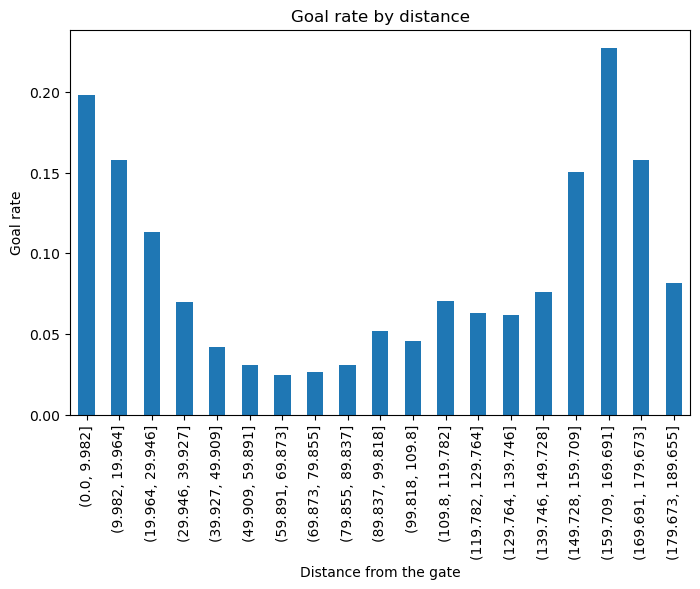
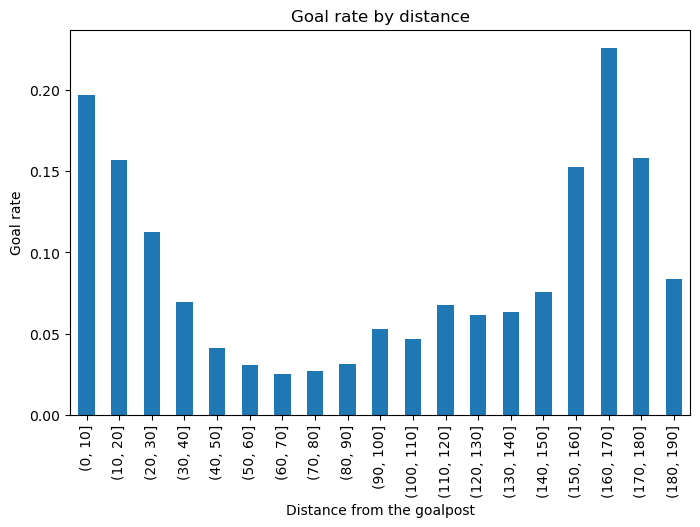
update imgs and use round() to the bins

diff --git a/Milestone2/features/feature_eng1.py b/Milestone2/features/feature_eng1.py
@@ -88,8 +88,9 @@ def init_distance_bins(df: pd.DataFrame) -> pd.DataFrame:
     max_distance = df['shotDistance'].max()
     min_distance = 0
 
-    # divide the distance into 20 bins
+    # divide the distance into 20 bins, and round to the nearest integer
     bins = np.linspace(min_distance, max_distance, 20)
+    bins = np.round(bins).astype(int)
 
     df['distance_bin'] = pd.cut(df['shotDistance'], bins=bins)
     return df
@@ -109,8 +110,9 @@ def init_angle_bins(df: pd.DataFrame) -> pd.DataFrame:
     max_angle = 90
     min_angle = 0
 
-    # divide the distance into 20 bins
+    # divide the distance into 20 bins, and round to the nearest integer
     bins = np.linspace(min_angle, max_angle, 20)
+    bins = np.round(bins).astype(int)
         
     df['angle_bin'] = pd.cut(df['shotAngle'], bins=bins)
     return df
